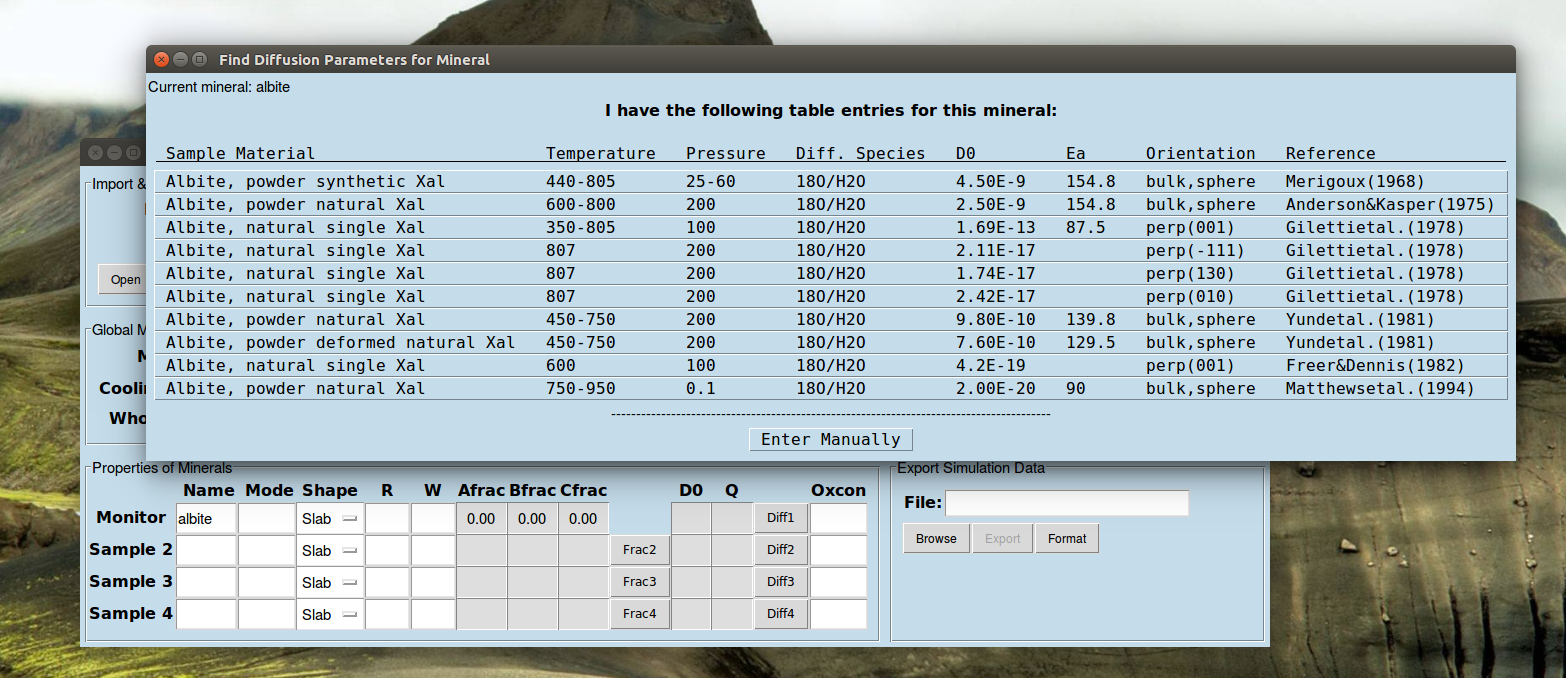
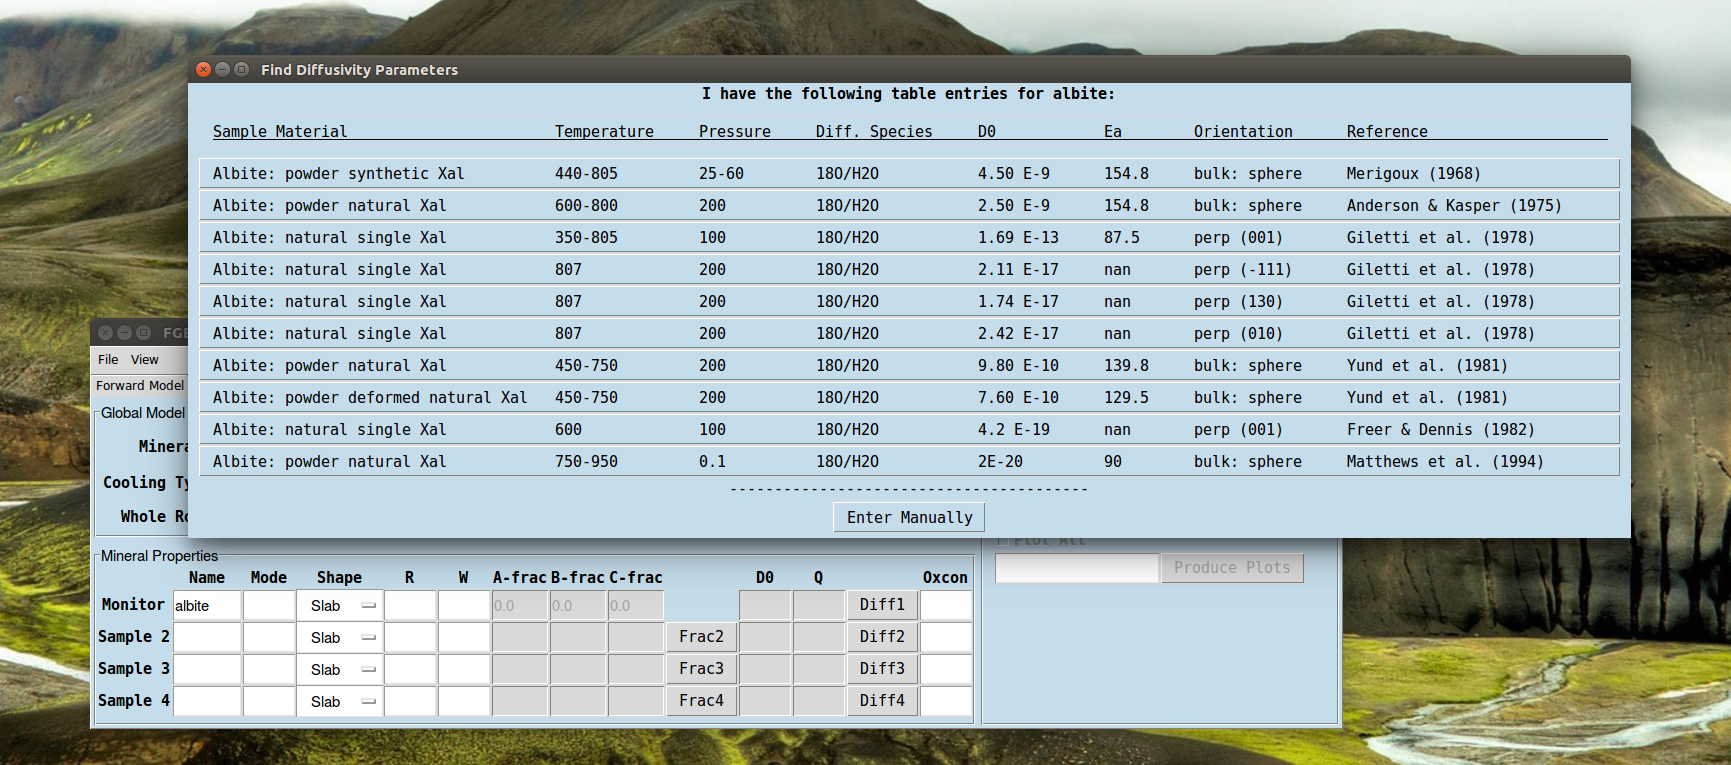
README updated for new design with inversion scheme

diff --git a/forwardmodeldialog.py b/forwardmodeldialog.py
@@ -81,26 +81,26 @@ class ModelCharFrame(tk.LabelFrame):
 
 
         # Place all model characteristics elements.
-        self.numminerals_label.grid(row=0, column=1, sticky='nse')
-        self.numminerals_input.grid(row=0, column=2, stick='nswe')
+        self.numminerals_label.grid(row=0, column=1, sticky='nse', padx=(5,5), pady=(7,1.5))
+        self.numminerals_input.grid(row=0, column=2, stick='nswe', padx=(5,10), pady=(7,1.5))
 
-        self.coolingtype_label.grid(row=1, column=1, sticky='nse')
-        self.coolingtype_input.grid(row=1, column=2, sticky='nswe')
+        self.coolingtype_label.grid(row=1, column=1, sticky='nse', padx=(5,5), pady=(1.5,1.5))
+        self.coolingtype_input.grid(row=1, column=2, sticky='nswe', padx=(5,10), pady=(1.5,1.5))
 
-        self.wholerock_label.grid(row=2, column=1, sticky='nse')
-        self.wholerock_input.grid(row=2, column=2, sticky='nswe')
+        self.wholerock_label.grid(row=2, column=1, sticky='nse', padx=(5,5),pady=(1.5,4))
+        self.wholerock_input.grid(row=2, column=2, sticky='nswe', padx=(5,10), pady=(1.5,4))
 
-        self.modelduration_label.grid(row=0, column=3, sticky='nse')
-        self.modelduration_input.grid(row=0, column=4, sticky='nswe')
+        self.modelduration_label.grid(row=0, column=3, sticky='nse', padx=(5,5), pady=(4,1.5))
+        self.modelduration_input.grid(row=0, column=4, sticky='nswe', padx=(5,5), pady=(4,1.5))
 
-        self.starttemp_label.grid(row=1, column=3, sticky='nse')
-        self.starttemp_input.grid(row=1, column=4, sticky='nswe')
+        self.starttemp_label.grid(row=1, column=3, sticky='nse', padx=(5,5), pady=(1.5,1.5))
+        self.starttemp_input.grid(row=1, column=4, sticky='nswe', padx=(5,5), pady=(1.5,1.5))
 
-        self.timestep_label.grid(row=0, column=5, sticky='nse')
-        self.timestep_input.grid(row=0, column=6, sticky='nswe')
+        self.timestep_label.grid(row=0, column=5, sticky='nse', padx=(5,5), pady=(7,1.5))
+        self.timestep_input.grid(row=0, column=6, sticky='nswe', padx=(5,5), pady=(7,1.5))
 
-        self.endtemp_label.grid(row=1, column=5, sticky='nse')
-        self.endtemp_input.grid(row=1, column=6, sticky='nswe')
+        self.endtemp_label.grid(row=1, column=5, sticky='nse', padx=(5,5), pady=(1.5,1.5))
+        self.endtemp_input.grid(row=1, column=6, sticky='nswe', padx=(5,5), pady=(1.5,1.5))
 
 
 class RockCharFrame(tk.LabelFrame):
@@ -110,6 +110,7 @@ class RockCharFrame(tk.LabelFrame):
         self.config(bg=mainapp.Background1)
         self.config(text='Mineral Properties')
         self.config(font=mainapp.font_sections)
+        tk.Frame(self).grid(row=20,column=0,columnspan=4,pady=(0,5))
 
 
         c_labels=['Monitor','Sample 2', 'Sample 3','Sample 4', 'Sample 5', 'Sample 6', 'Sample 7','Sample 8']
@@ -259,6 +260,7 @@ class RockCharFrame(tk.LabelFrame):
                                               font=mainapp.font_inputs, state='disabled',
                                               width=6)
 
+        
         self.diffsearch=dict()
         for i in range(0,8):
             self.diffsearch[i]=tk.Button(self, text='Diff'+str(i+1), command=lambda i=i:
@@ -277,6 +279,7 @@ class RockCharFrame(tk.LabelFrame):
 
             self.oxcon_inputs[i]=tk.Entry(self, textvariable=self.oxcon_vars[i],
                                           font=mainapp.font_inputs, width=6)
+
 
 
 class GraphingFrame(tk.LabelFrame):
@@ -309,11 +312,11 @@ class GraphingFrame(tk.LabelFrame):
                                           bg = mainapp.Background1,
                                           variable=self.plotall_chkvar,
                                           state='disabled')
-        self.plotall_check.grid(row=9, column=0, stick='nsw')
+        self.plotall_check.grid(row=9, column=0, stick='nsw', padx=(5,0))
         self.plotall_var=tk.StringVar(parent)
         self.plotall_input=tk.Entry(self, textvariable=self.plotall_var,
                                     font=mainapp.font_inputs)
-        self.plotall_input.grid(row=10, column=0, sticky='nsw')
+        self.plotall_input.grid(row=10, column=0, sticky='nsw', padx=(11,0))
 
         self.plot=tk.Button(self, text='Produce Plots', font=mainapp.font_buttons,
                             command=lambda: PlotGraphs(parent))
@@ -792,8 +795,8 @@ class ForwardModelPage(tk.Frame):
             self.rockcharframe.oxcon_inputs[i].grid(row=i+1,column=13, sticky='nsew')
 
 
-            self.graphingframe.plotsingle_check[i].grid(row=2*int(i/2), column=i%2, sticky='nsw')
-            self.graphingframe.plotsingle_input[i].grid(row=2*int(i/2)+1, column=i%2, sticky='nsw')
+            self.graphingframe.plotsingle_check[i].grid(row=2*int(i/2), column=i%2, sticky='nsw', padx=(5,0))
+            self.graphingframe.plotsingle_input[i].grid(row=2*int(i/2)+1, column=i%2, sticky='nsw', padx=(11,0))
 
         for i in range(int(n),8):
             self.rockcharframe.column_labels[i].grid_remove()
@@ -831,6 +834,7 @@ class ForwardModelPage(tk.Frame):
 
     def __init__(self,parent):
         tk.Frame.__init__(self,parent)
+        self.config(bg=parent.Background1)
 
         # Set weights for all rows and columns in frame
         for i in range(0,2):
@@ -842,15 +846,15 @@ class ForwardModelPage(tk.Frame):
         # Create three main sections of forward model tab.
 
         self.modelcharframe = ModelCharFrame(self,parent)
-        self.modelcharframe.grid(row=0, column=0, sticky='nsew')
+        self.modelcharframe.grid(row=0, column=0, sticky='nsew', padx=(3,3), pady=(3,3))
 
         self.rockcharframe = RockCharFrame(self, parent)
-        self.rockcharframe.grid(row=1, column=0, sticky='nsew')
+        self.rockcharframe.grid(row=1, column=0, sticky='nsew', padx=(3,3), pady=(3,3))
 
         self.graphingframe = GraphingFrame(self, parent)
-        self.graphingframe.grid(row=0, column=1, rowspan=2, sticky='nsew')
+        self.graphingframe.grid(row=0, column=1, rowspan=2, sticky='nsew', padx=(3,3), pady=(3,3))
 
-        self.setnummin(4)
+        self.setnummin(2)
         self.setnumgraphs(0)
 
         # Create dicationary of all forward model parameters to be set and read for

diff --git a/DiffusionSolver.py b/DiffusionSolver.py
@@ -16,18 +16,18 @@ class FastGrainDiffusionApp(tk.Frame):
         parent.grid_columnconfigure(0,weight=1)
         parent.title('FGB Model')
 
-        # Set global visual characteristics
+        # Set global visual characteristics 
         self.Background1 = '#c5ddeb'
         self.font_inputs = tkFont.Font(family="Helvetica", size=11)
         self.font_sections = tkFont.Font(family="Helvetica", size=11)
-        self.font_labels = tkFont.Font(family="ariel", size=11, weight='bold')
-        self.font_buttons = tkFont.Font(family="Helvetica", size=11)
-        self.font_message = tkFont.Font(family='Helvetica', size=11, weight='bold')
+        self.font_labels = tkFont.Font(family="monospace", size=11, weight='bold')
+        self.font_buttons = tkFont.Font(family="monospace", size=11)
+        self.font_message = tkFont.Font(family='monospace', size=11, weight='bold')
         self.font_mono1 = tkFont.Font(family='monospace', size=11)
         self.font_mono2 = tkFont.Font(family='monospace', size=11)
         self.font_mono2.configure(underline=True)
-        self.font_inputs2 = tkFont.Font(family="Helvetica", size=13)
-        self.font_large = tkFont.Font(family="ariel", size=16, weight='bold')
+        self.font_inputs2 = tkFont.Font(family="monospace", size=13)
+        self.font_large = tkFont.Font(family="monospace", size=16, weight='bold')
 
 
 
@@ -48,6 +48,7 @@ class FastGrainDiffusionApp(tk.Frame):
 
         self.page3 = tk.Frame()
         self.maintabs.add(self.page3, text='Temp History')
+
 
         self.toolbar = ToolBar(self)
         root.config(menu=self.toolbar)

diff --git a/inversemodeldialog.py b/inversemodeldialog.py
@@ -167,7 +167,7 @@ class ForwardModelInputs(tk.Frame):
         tk.Frame.__init__(self,parent)
         self.config(bg=mainapp.Background1)
 
-        tk.Label(self, text='Forward Models', font=mainapp.font_labels,
+        tk.Label(self, text='Model Parameters', font=mainapp.font_labels,
                  bg=mainapp.Background1).grid(row=0, column=1, padx=(4,0), pady=(4,0))
         tk.Frame(self, width=2, bg='black').grid(row=1, column=2, sticky='ns',
                                                  rowspan=5, padx=(3, 3))

diff --git a/modelfunctions.py b/modelfunctions.py
@@ -425,6 +425,7 @@ def find_inverses(mainapp):
             # Get magnitude of final gradient function
             K=calc_jacob(mainapp,final_sol,calc_residuals(mainapp,final_sol,alpha),alpha,past_sse,past_aLm)
             Kmag=linalg.norm(matmul(transpose(K),final_res))
+            mainapp.page2.progwind.destroy()
 
 
 

diff --git a/toolbardialog.py b/toolbardialog.py
@@ -177,7 +177,6 @@ def decreasefont(main):
 
 
 
-
 class ToolBar(tk.Menu):
 
     def __init__(self, parent):

diff --git a/README.md b/README.md
@@ -1,32 +1,37 @@
 # Oxygen Isotope Diffusion Solver
 
-This python code solves the Fast Grain Boundary (FGB) model for isotope diffusion. It provides a GUI interface for inputing all mineral parameters and provides several graphing options along with the option to export the model solution data to a .csv file. Search menus are provided for convenient referencing of diffusion parameters and fractionation factors.
+This application simulates the Fast Grain Boundary (FGB) model for isotope diffusion. It provides a GUI interface for inputing all mineral parameters and provides several graphing options along with the ability to export the model solution data to a .csv file. Search menus are provided for convenient referencing of diffusion parameters and fractionation factors.
+
+Additionally, the application is equipped with an inversion scheme that can be used to recover thermal histories of mineral samples using isotope zoning profiles. This allows the recovery of high temperature histories not achievable with other commercially available software packages such as HeFTy and QtQt.
+
+For a complete description of the model and detailed analysis of the inverse techniques involved, please see the author's thesis entitled "THERMAL HISTORY INVERSION USING THE FAST GRAIN BOUNDARY MODEL OF DIFFUSION." Paper under construction.
 
 ## Getting Started
 
 These instructions will get you a copy of the project up and running on your local machine and walk you through an example set up of the model parameters.
 
-### Prerequisites
+### Dependencies
 
-For this code to run you will need to have python 3 installed on your computer along with the following packages for it: tkinter, numpy, matplotlib, and pandas. We recommend using the Anaconda distribution of python as it comes with all the neccessary packages and runs on Intel's proprietary Math Kernel Library blas so that all computations are performed as quickly as possible. Installation instructions can be found at https://docs.anaconda.com/anaconda/install/.
+For this code to run you will need to have python 3 installed on your computer along with the following packages for it: tkinter, numpy, scipy, matplotlib, pandas, glob, and os. We recommend using the Anaconda distribution of python as it comes with all the necessary packages and runs on Intel's proprietary Math Kernel Library blas so that all computations are performed as quickly as possible. Installation instructions can be found at https://docs.anaconda.com/anaconda/install/.
 
 ### Installing & Running
 
-First download the files DiffusionSolver.py, FractionationFactorsR.csv, and ODiffusionR.csv. Make sure to place all files in the same folder. Additionally, you can download FGB_03S1T1_Params.txt as it contains an example of saved model parameters and will allow you to check that the code is running correctly.
+First download the entire repository, this will ensure that the hierarchical structure of the code is maintained and sub-dependencies of the code are correctly located. Several sample data sets are include to provide a check that the program is running correctly.
 
-Next we need to open a live terminal and navigate to the folder containing DiffusionSolver.py. On Mac and Linux this is done by simply typing "Terminal" into the application search bar. On windows search for 'cmd.' The command cd can be used to change your current folder and ls (Linux, Mac) or dir (Windows) can be used to list the available subfolders to navigate to. Once your in the folder containing DiffusionSolver.py run the code by using the commmand python3, as this will ensure the code is run with the appropriate version. Alternatively you can use an IDE such as Pycharm, or Spyder for Mac.
+Next we need to open a live terminal and navigate to the folder containing DiffusionSolver.py. On Mac and Linux, this is done by typing "Terminal" into the application search bar. On windows, search for 'cmd.' The command cd can be used to change your current folder and ls (Linux, Mac) or dir (Windows) can be used to list the available sub-folders to navigate to. Once in the folder containing DiffusionSolver.py, run the code by using the command python3, as this will ensure the code is run with the appropriate version. Alternatively you can use an IDE such as Pycharm, or Spyder for Mac.
 
 ```
 usr>: cd Documents
-usr>/Documents: cd OxygenDiffusionSolver
-usr>/Documents/OxygenDiffusionSolver: python3 DiffusionSolver.py
+usr>/Documents: cd FastGrainBoundary-DiffusionSolver
+usr>/Documents/FastGrainBoundary-DiffusionSolver: python3 DiffusionSolver.py
 ```
 This should open the following pop-up:
 ![alt text](Screenshots/Screen01-maingui.png "")
 
-### Inputing Model Parameters
+## Using the Forward Model 
+The forward model accepts global model parameters, mineral-specific parameters, and an expected time-temperature history for the mineral sample. The model output will be the isotope composition for each mineral grain in our sample.
 
-After the GUI popups we will need to input both the general model parameters and the mineral-specific parameters. Most of these are fairly self explanatory. First we will set the number of minerals to four, the current version allows for any number between two and eight. Next, we will select a linear cooling type; this creates a cooling history where temperature is proportional to time. With this we will need to specify the starting and ending temperatures, and the time duration of this cooling. There is also an inverse cooling option (temperature inveresly proportional to time), and a custom option. The custom option will ask for a comma-delimited text file containing times in the first column and cooling rates for that corresponding length of time in the second column. All times are in millions of years, and all temperatures are in Celsius unless otherwise stated. We will also need to specify the crushed whole rock delta-18O of our sample. If at any point you are unclear of the units or meaning of a button/entry, simply hover over it with your mouse and a tool-tip should pop up with a brief explanation.
+On the first tab of the application entitled "Forward Model", we will set the number of minerals to four. Current version allows for any number between two and eight. Next, we will select a linear cooling type; this creates a cooling history where temperature is proportional to time. With this we will need to specify the starting and ending temperatures, and the time duration of this cooling. There is also a reciprocal cooling option (temperature inversely proportional to time), and a custom option. The custom option will ask for a comma-delimited text file containing times in the first column and cooling rates for that corresponding length of time in the second column. All times are in millions of years, and all temperatures are in Celsius unless otherwise stated. We will also need to specify the whole rock delta-18O of our sample.
 
 After putting in the general model parameters you should have the following screen:
 ![alt text](Screenshots/Screen02-mainparams.png "")
@@ -38,15 +43,29 @@ You can select from the any of the current options or enter manually. Similarly 
 
 ![alt text](Screenshots/Screen04-frac.png "")
 
-Finally, after putting in the modes (mole fractions), mineral radii and widths, and the shape paramters describing the diffusion geometry, you should have the following.
+Finally, after putting in the modes (mole fractions), mineral radii and widths, and the shape parameters describing the diffusion geometry, we have the window shown below. You can use the 'File->Load Parameters' option to import these parameters from the Examples/Ex_Params1.txt file. 
 
 ![alt text](Screenshots/Screen05-allparams.png "")
 
-To save the model parameters click on the 'Browse' inline with 'Export'. After selecting the file location, click the 'Save' button between 'Open' and 'Run' to actually save the parameters to the selected file. Now in the future you can use the import browse and open buttons to reload the parameters. Now click run and the program will begin, the model simulation will take 10-30 seconds depending on your system. After the simulation is complete you can plot any minerals delta-18 values at any time, or save the entire simulation to a csv file. If you've used the parameters from importing FGB_03S1T1_Params.txt you should get the following plots. 
+To save the model parameters use the 'File->Save Parameters' button. These saved model files will be used for the inverse solver explained below. Now click 'File->Run' and the program will begin, the model simulation will take 10-30 seconds depending on your system. After the simulation is complete you can plot any minerals delta-18 values at any time, or save the entire simulation to a csv file. If you've used the parameters from importing Examples/Ex_Params1.txt, you should get the following plots by using times 0, .8, 2, 4 for mineral 3 and 0,1,2,3 for mineral 4.
 
 ![alt text](Screenshots/Screen06-modeloutput.png "")
 
 
-### Project Support
- This material is based upon work supported by the National Science Foundation under Grant Number 1650355.
+## Using the Inverse Solver
+The inverse solver will accept 1-5 files containing saved model parameters created in the previous section. Each file corresponds to a single mineral sample. For each sample, and each mineral grain in that sample, we can then upload a data file containing an isotopic profile and associated uncertainties.
+
+By clicking on the rows of section 'Model Parameters' in the tab 'Inverse Model', we can upload all four of our example of model parameters: Ex_Params1.txt, Ex_Params2.txt, Ex_Params3.txt, Ex_Params4.txt. This will result in the screen:
+
+![alt text](Screenshots/Screen07-invparams.png "")
+
+Each one of these parameter files is setup to simulate the diffusive exchange between four minerals: quartz, feldspar, titanite, and augite. However, for each one we only have data available for the third mineral, titanite. Thus, we will upload our example data Ex_Data1.txt through Ex_Data4.txt, in the top four rows of the column 'Mineral 3.' 
+![alt text](Screenshots/Screen08-data.png "")
+Finally, we will need to select which starting solutions we wish to use for our multi-start Levenberg-Marquardt algorithm. Click on the 'directory location' file dialog and select the Inverse_InitialSol folder. We will then elect to use Initial09.txt as our starting solution.
+![alt text](Screenshots/Screen09-invinitial.png "")
+Finally, we will click File->Run. At each iteration of the process, the left panel will show the initial solution in a black dashed line, and the current solution will be shown in blue. The right panel will show all the past objective values (measure of data fit and smoothness) will be shown in the bar plot on the right.
+![alt text](Screenshots/Screen10-invdialog.png "")
+
+#### Project Support
+This material is based upon work supported by the National Science Foundation under Grant Number 1650355.
 
